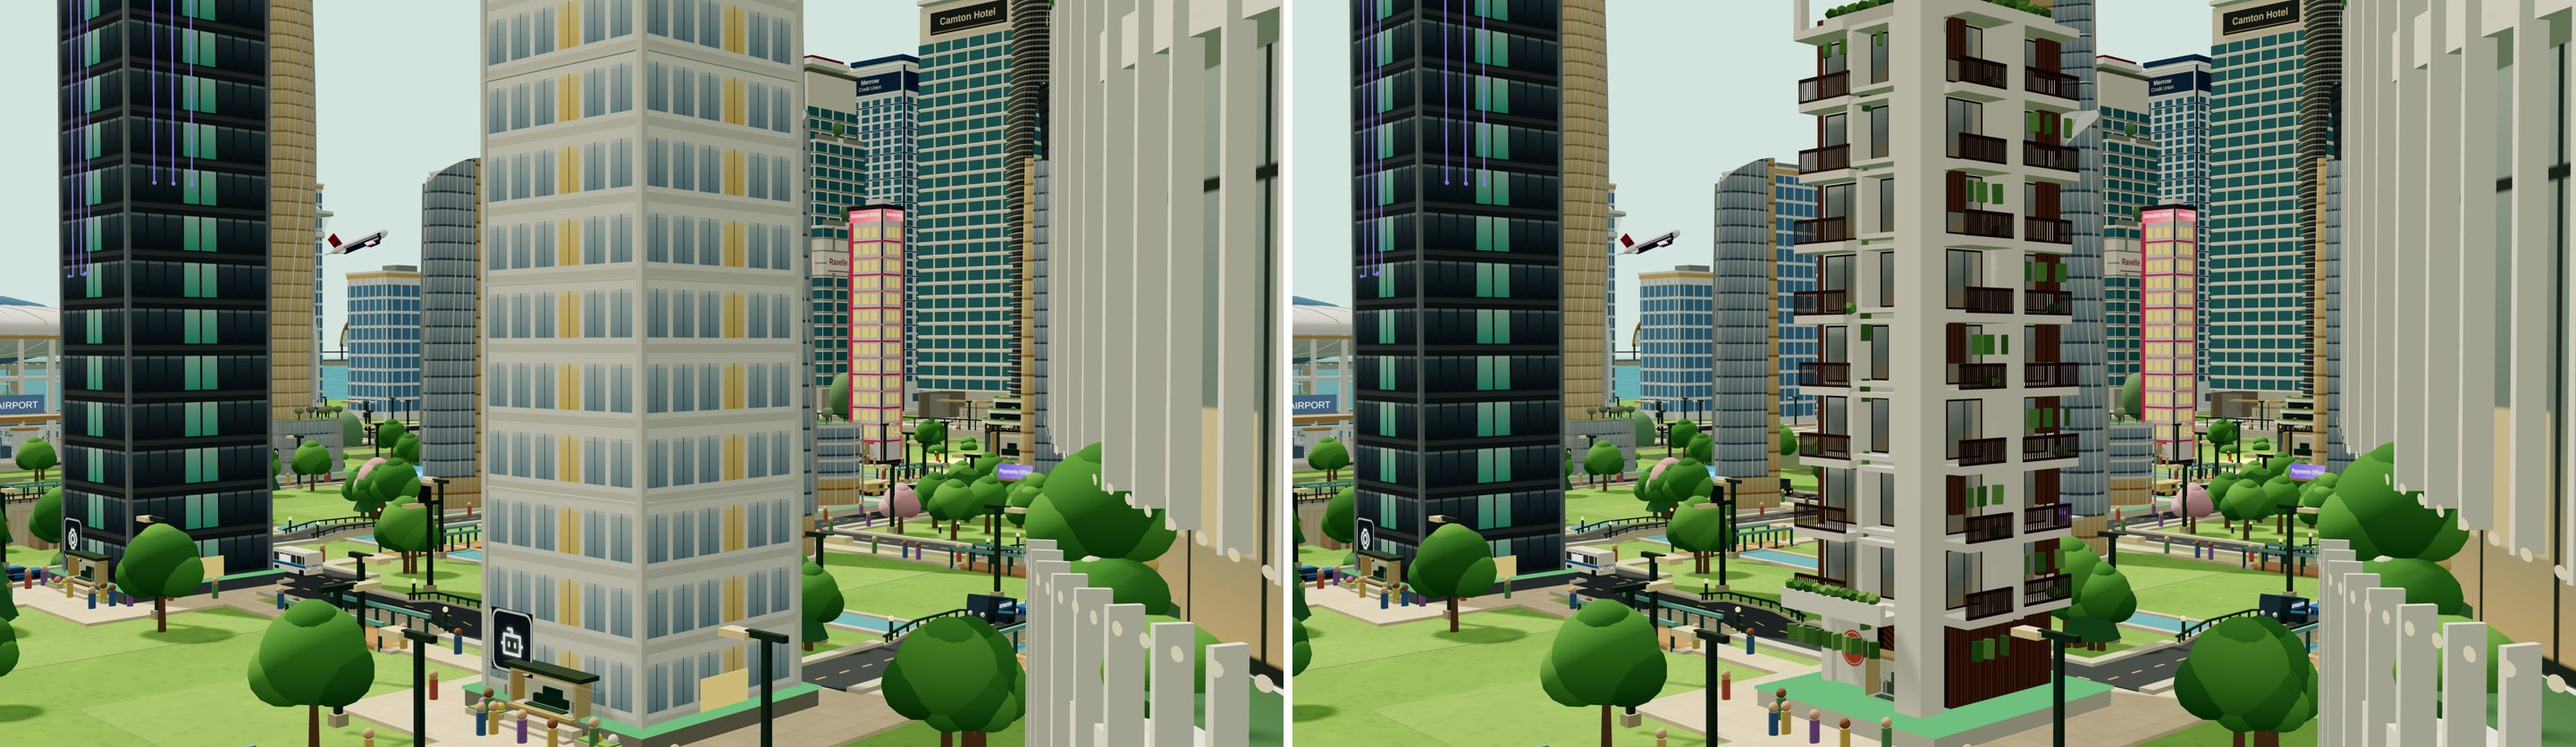
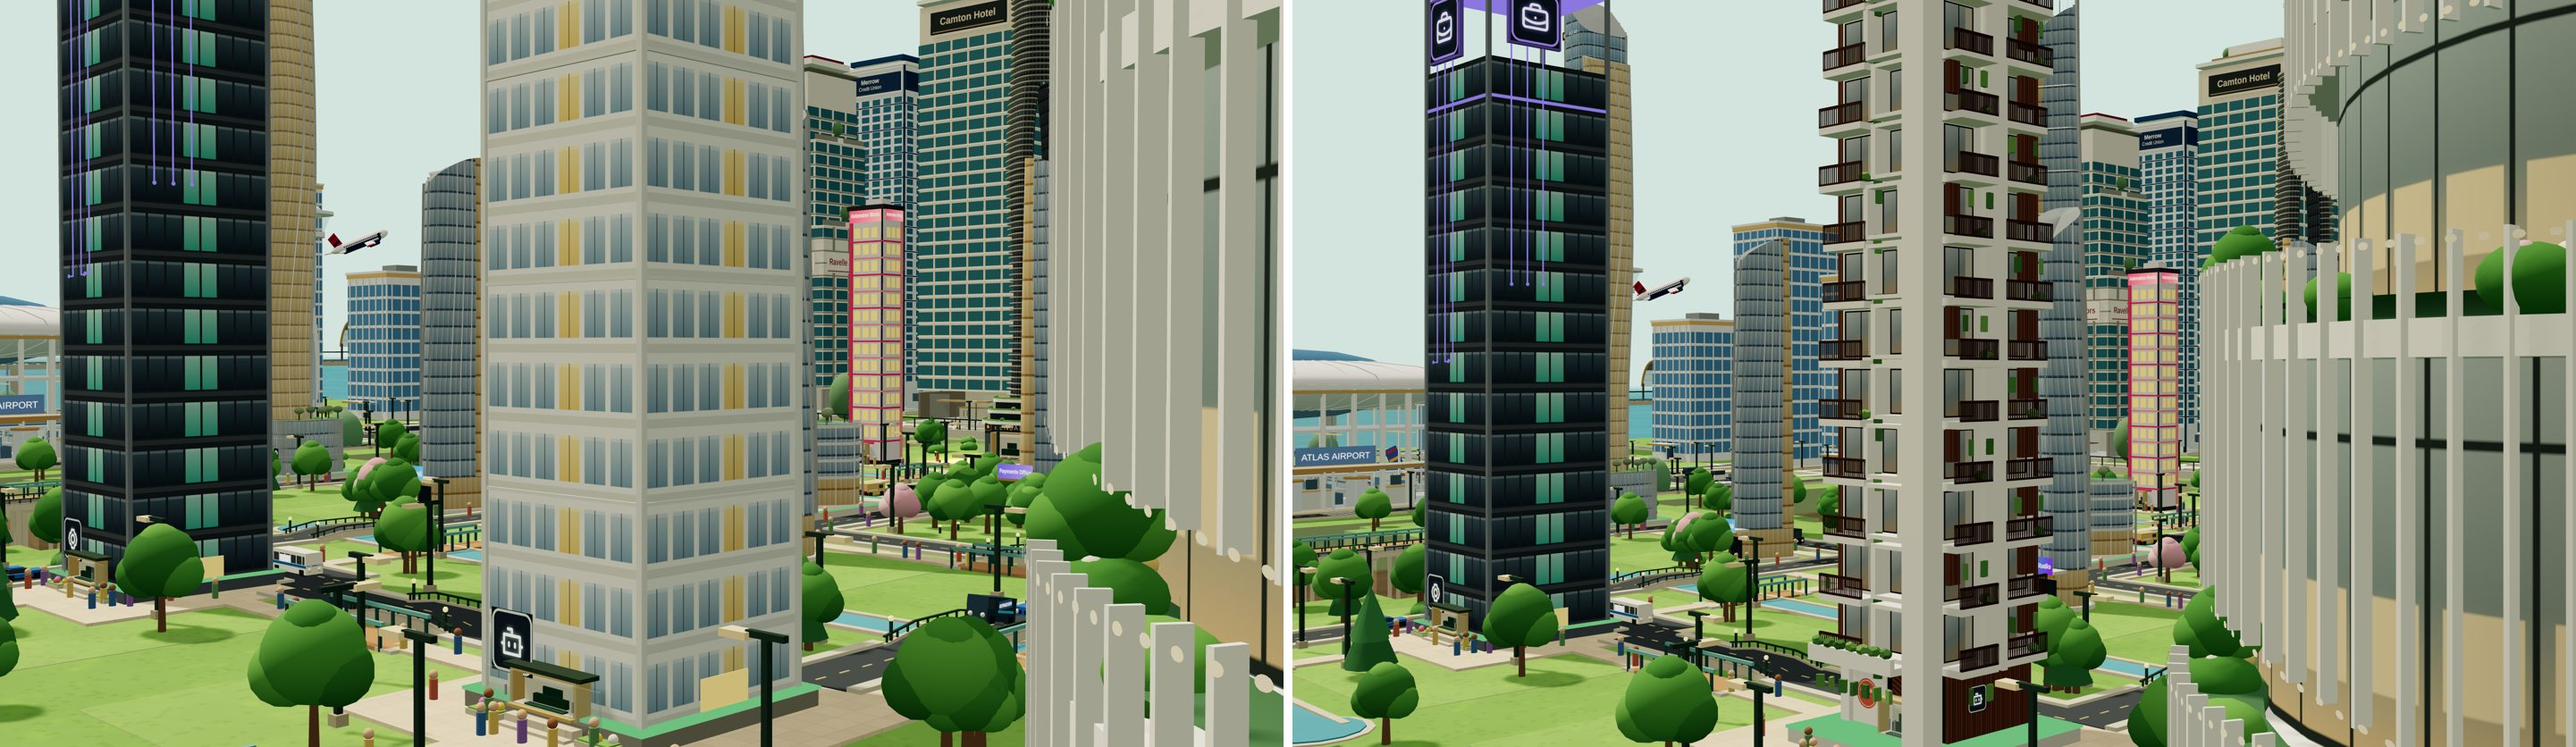
Portfolio Site: twelve floors above the ground floor instead of eight
KC asked for it taller. The same floor repeats four more times, so the roof
(6.66) stands near the old 14-storey tower's height. Screenshots refreshed.

Claude-Session: https://claude.ai/code/session_01FS1cYMRzJ16dYUwQhTYtVT

diff --git a/visual/portfolio-site.visual.ts b/visual/portfolio-site.visual.ts
@@ -19,7 +19,7 @@ async function views(page:import('@playwright/test').Page,list:View[]){
 }
 // Offsets from the building (found by name); the map looks at it from +x/+z.
 const at=(dx:number,y:number,dz:number):[number,number,number]=>[dx,y,dz];
-const VIEWS:View[]=[['front',at(0,3,0),at(3,2.4,9.5)],['corner',at(0,3,0),at(7,3.2,7)]];
+const VIEWS:View[]=[['front',at(0,3.8,0),at(3.6,2.8,11.5)],['corner',at(0,3.8,0),at(8.5,3.8,8.5)]];
 test.skip(!process.env.PORTFOLIO_SITE_SHOTS,'Screenshots only: set PORTFOLIO_SITE_SHOTS=1');
 for(const light of ['day','night'] as const)test(`Portfolio Site, ${light}`,async({page})=>{
  test.setTimeout(600_000);mkdirSync(out,{recursive:true});const errors:string[]=[];page.on('pageerror',e=>errors.push(e.message));
@@ -35,5 +35,5 @@ test('Portfolio Site nameplate still opens its panel',async({page})=>{
 test('Portfolio Site on a phone',async({page})=>{
  mkdirSync(out,{recursive:true});await page.setViewportSize({width:390,height:844});
  await openAtlas(page,{light:'day'});await waitForScene(page);await settle(page,2);
- for(const s of await views(page,[['phone',at(0,3,0),at(7,4,9)]]))writeFileSync(`${out}/${s.name}.png`,Buffer.from(s.png.split(',')[1],'base64'));
+ for(const s of await views(page,[['phone',at(0,3.8,0),at(8.5,4.8,11)]]))writeFileSync(`${out}/${s.name}.png`,Buffer.from(s.png.split(',')[1],'base64'));
 });

diff --git a/src/views/map3d/portfolioSitePlan.ts b/src/views/map3d/portfolioSitePlan.ts
@@ -1,7 +1,7 @@
 import type {Tower} from './scene';
 
 /**
- * The Portfolio Site as a slim G+8 apartment building, after KC's reference (the G+M+8 apartment
+ * The Portfolio Site as a slim apartment tower, after KC's reference (the G+M+8 apartment
  * building in Dhaka by Khetro Sthapati, Behance screenshots 2026-11-08): white render, brown brick
  * and timber slats on the left side and back, and on the faces the map looks at:
  * - front (+z): a balcony per floor on the left (white slab, brown slatted railing, warm window
@@ -18,8 +18,11 @@ import type {Tower} from './scene';
  */
 export const PORTFOLIO_SITE={
  projectId:'portfolio-site',
- /** Ground floor plus eight floors, as the design's name says (G+8). */
- floors:8,
+ /**
+  * Ground floor plus twelve floors: the reference is G+8, but KC asked for it taller (2026-11-08),
+  * so the same floor repeats four more times and the roof stands near the old tower's height.
+  */
+ floors:12,
  ground:.66,
  storey:.5,
  /** Roof terrace: the canopy's underside above the roof, its thickness, the parapet height. */

diff --git a/src/views/map3d/portfolioSite.test.ts b/src/views/map3d/portfolioSite.test.ts
@@ -12,7 +12,8 @@ const tower=scene.towers.find(t=>t.projectId===PORTFOLIO_SITE.projectId)!;
 const plan=planPortfolioSite();
 
 describe('Portfolio Site',()=>{
- it('is a ground floor plus eight floors (G+8) of a believable height',()=>{
+ it('is a ground floor plus twelve floors of a believable height, near the old tower',()=>{
+  expect(plan.roof).toBeGreaterThan(tower.floors*FLOOR_H*.95);
   expect(plan.lines).toHaveLength(PORTFOLIO_SITE.floors+1);
   expect(PORTFOLIO_SITE.storey).toBeGreaterThan(FLOOR_H*.95);
   expect(PORTFOLIO_SITE.storey).toBeLessThan(FLOOR_H*1.15);

diff --git a/src/views/map3d/PortfolioSite.tsx b/src/views/map3d/PortfolioSite.tsx
@@ -68,7 +68,7 @@ function worldBox(w:number,h:number,d:number,x:number,y:number,z:number){
 const MATERIAL_KINDS=['white','trim','rail','dark','lobby'] as const;
 
 /**
- * The Portfolio Site as a slim G+8 apartment building (see portfolioSitePlan). Almost every part
+ * The Portfolio Site as a slim apartment tower (see portfolioSitePlan). Almost every part
  * is an instance of the shared unit box or plane, so the building adds no geometry beyond one
  * merged mesh for its brick and timber, and no lights.
  */

diff --git a/CHANGELOG.md b/CHANGELOG.md
@@ -3,7 +3,7 @@
 What changed in Atlas, newest first. Every pull request that changes the app adds one line at the
 top of the list: `- YYYY-MM-DD · What changed, in plain words (#201)`. The newest five lines are
 shown in the Mac app's **Update available** button, so write them for KC, not for a reviewer.
-- 2026-11-08 · The Portfolio Site is rebuilt from your G+8 apartment reference: white render with brown brick and timber down the side, a balcony with a slatted railing on every floor, white frames round the middle windows that zigzag every two floors, planted balconies with trailing greenery, a timber chevron gate with a round terracotta name sign, and a roof terrace under a flat white canopy. Its windows and balcony ceilings glow warm at night. It is now a ground floor plus eight floors, so it stands a little lower than the plain tower it replaces (#280)
+- 2026-11-08 · The Portfolio Site is rebuilt from your G+8 apartment reference: white render with brown brick and timber down the side, a balcony with a slatted railing on every floor, white frames round the middle windows that zigzag every two floors, planted balconies with trailing greenery, a timber chevron gate with a round terracotta name sign, and a roof terrace under a flat white canopy. Its windows and balcony ceilings glow warm at night. It has a ground floor plus twelve floors, about as tall as the plain tower it replaces (#280)
 - 2026-11-08 · The Intelligence Hub is rebuilt from your corner-building reference: white ribbed fins, thin black lines at every floor that swell round the cut corner (they glow gold at night), a planted loggia on the corner of every floor, rounded black-framed windows, a glass shopfront ground floor under a rounded overhang, and a rear wing that steps down to a planted roof. It now has 20 floors instead of 14 (#276)
 - 2026-11-08 · Atlas no longer says an on-request agent, like Portfolio Web Developer, needs attention just because you haven't asked it to do anything for a week (#271)
 - 2026-11-07 · Inside Ellipse Residences and every other Financial District building, the lobby is back on the ground. The grass outside had been drawn a storey too high, hiding the lobby and making the building look like it stood on stilts (#270)
